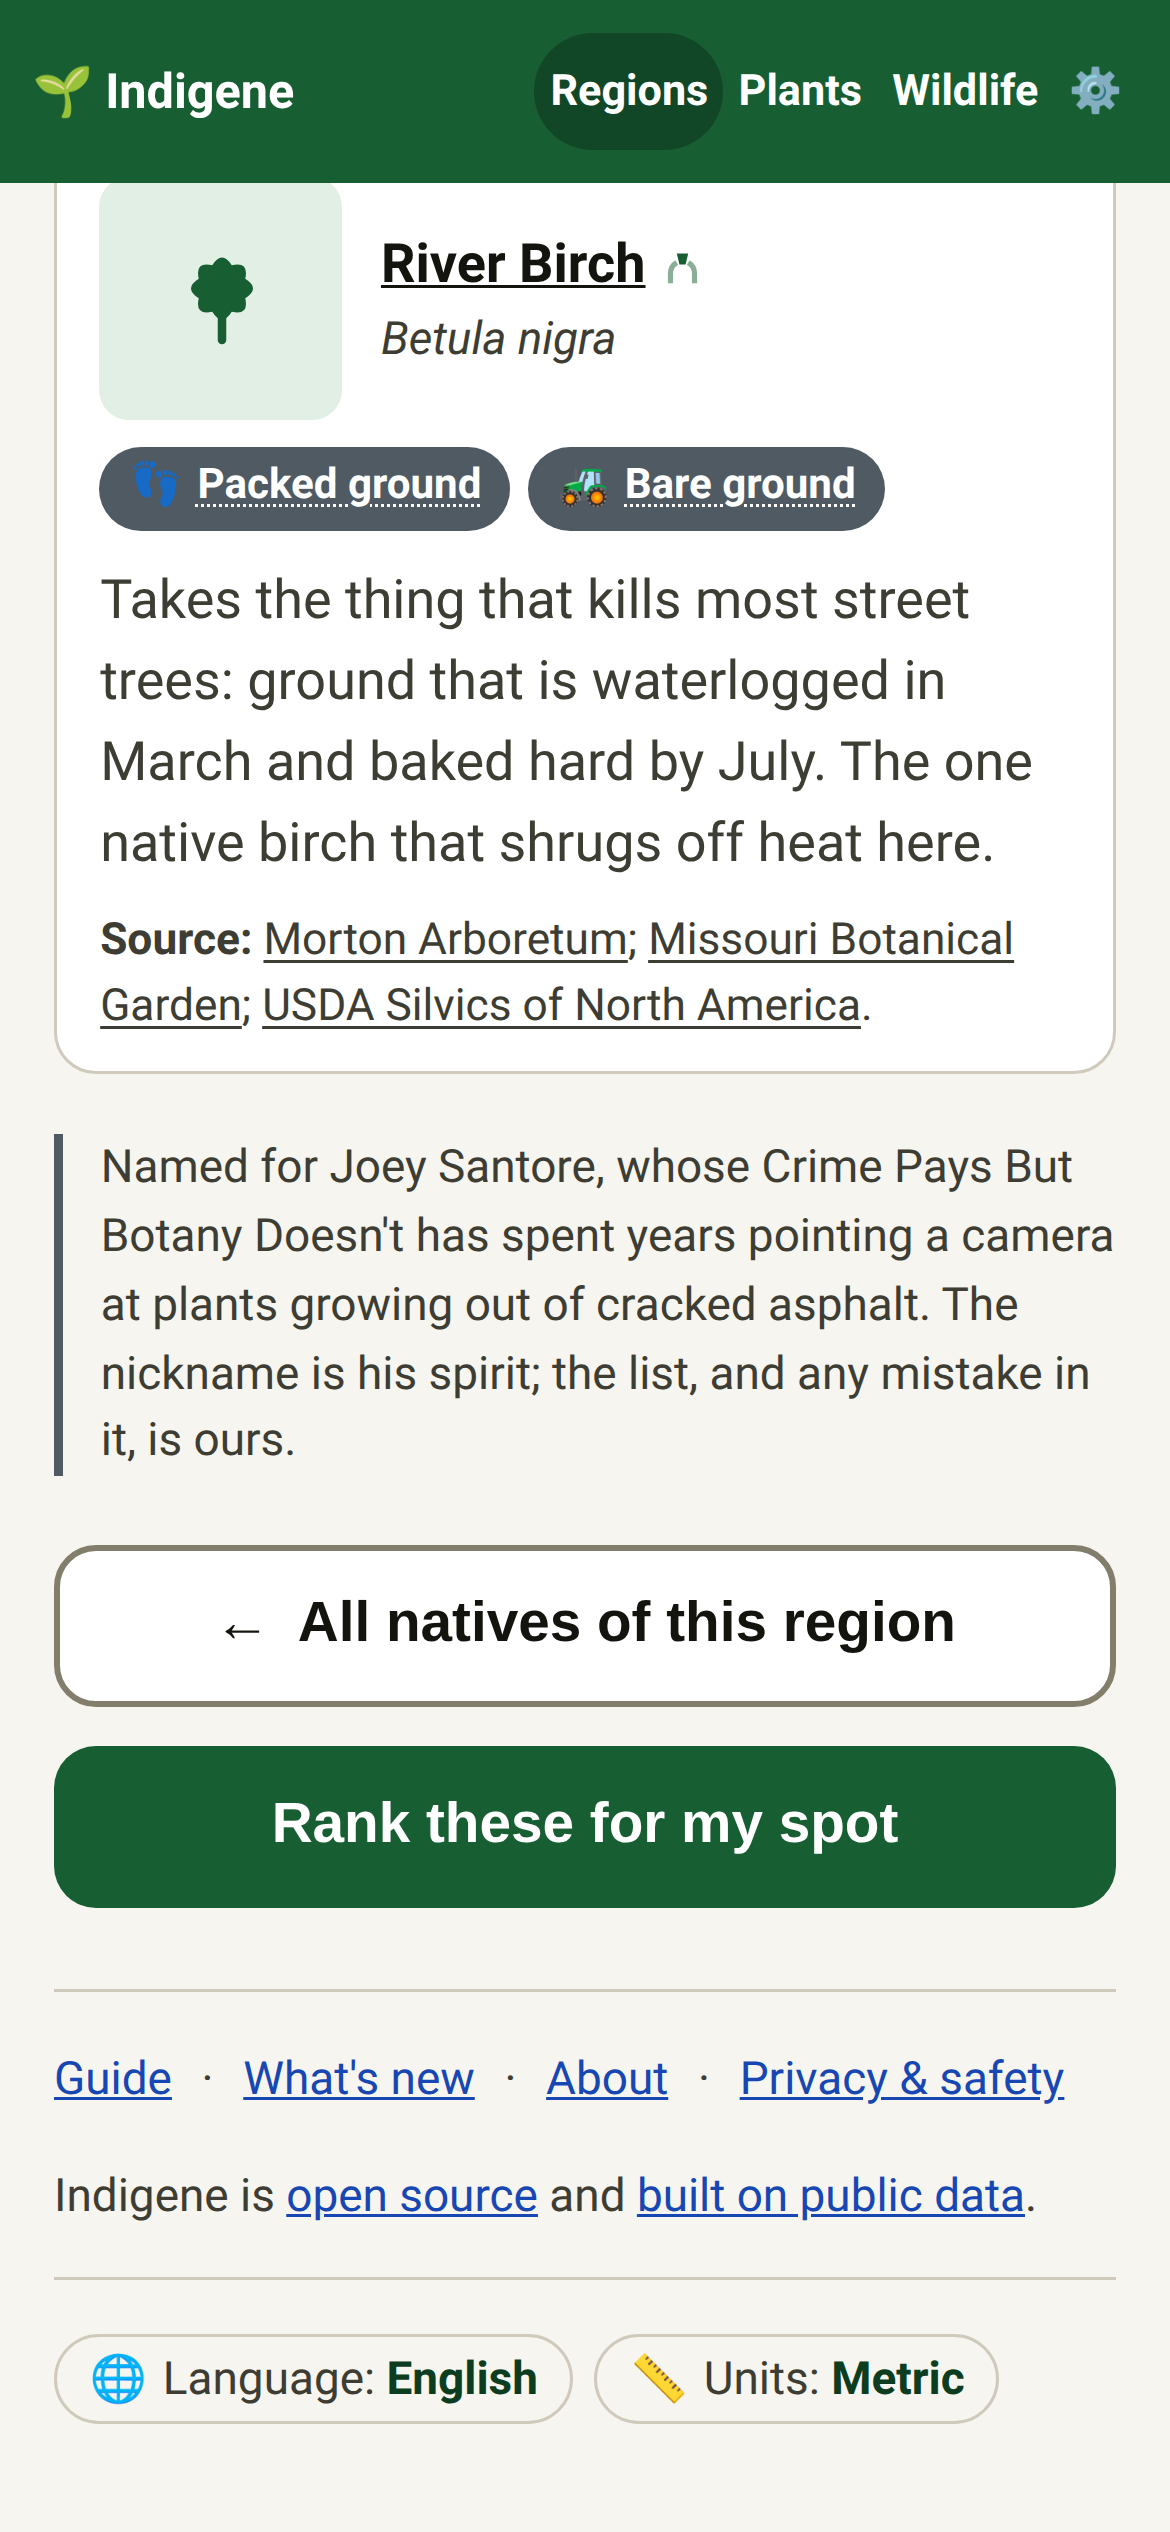
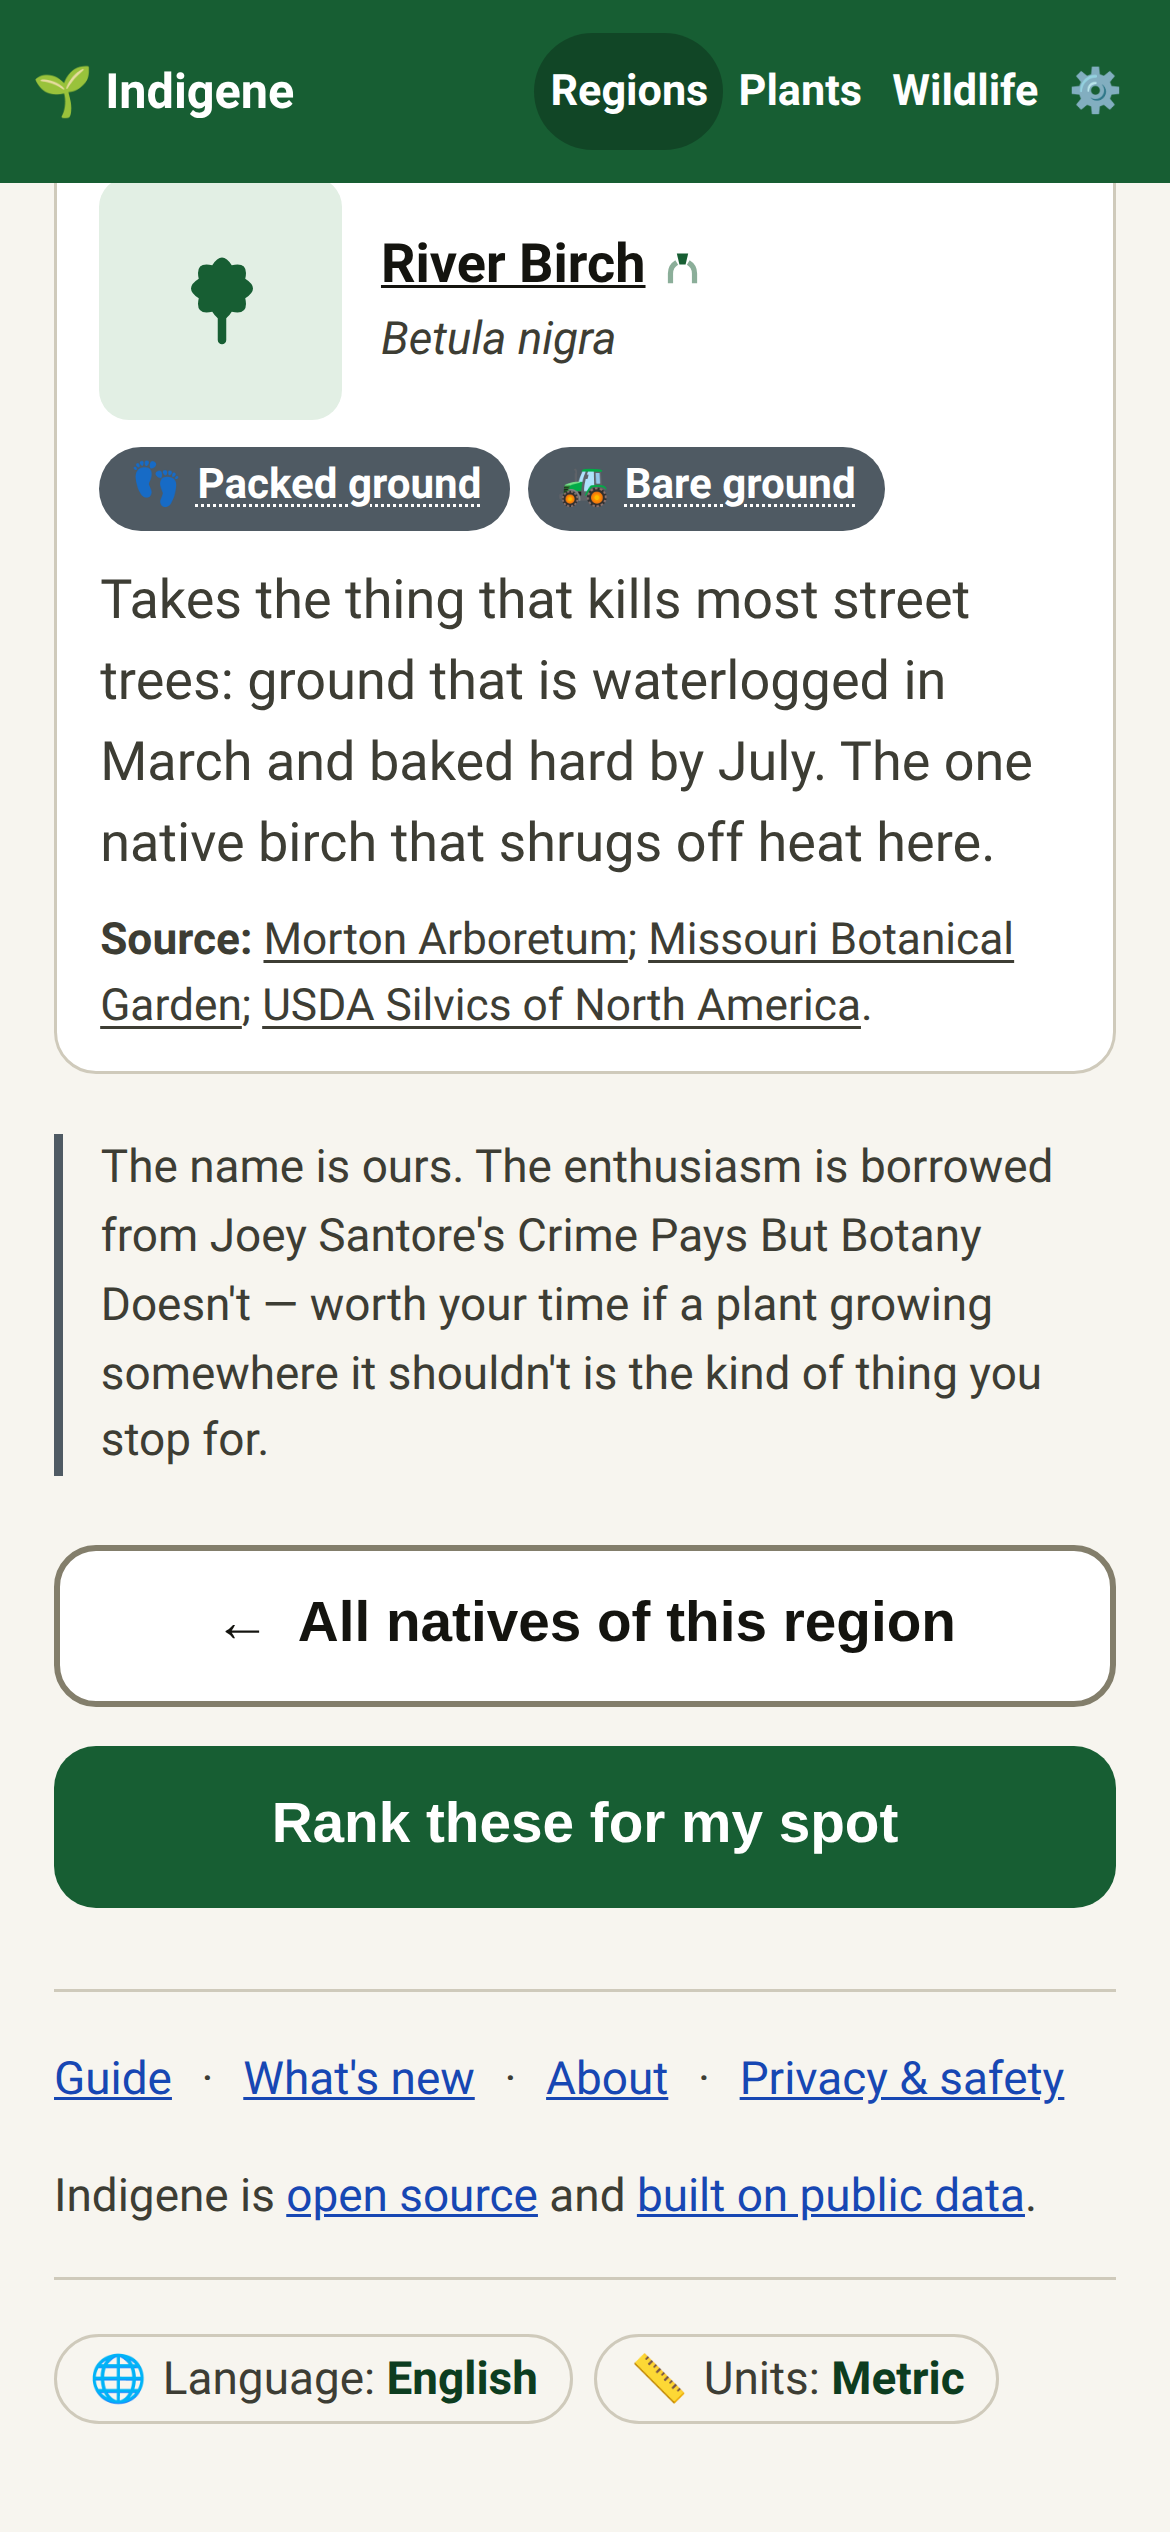
Credit the channel, not a phrase he never said
The closing line claimed Joey Santore had "spent years pointing a camera at
plants growing out of cracked asphalt" and that the nickname was "his
spirit". Neither is checkable: nothing ties "pavement pioneers" to him or
to anyone else, and his channel is about plant ecology broadly, not
sidewalk flora. Written that way it also read as sucking up, and implied
he had some part in a list he has never seen.

So the line says what is true — the name is ours, the enthusiasm is
borrowed — and recommends the channel instead of speaking for it. The code
comments beside it now say so too, so it can't drift back.

Claude-Session: https://claude.ai/code/session_01U3cNzL1pWVvwMeWKm6oVEn

Changed region(s): [[0.0923, 0.4368, 0.9538, 0.5928]]

diff --git a/app/src/locales/fr.ts b/app/src/locales/fr.ts
@@ -1791,8 +1791,9 @@ export const fr: Dict = {
 
   // ---------------------------------------------------------------------
   // Les pionnières du bitume — la courte liste pour le sol qu'une ville
-  // offre vraiment. Le surnom rend hommage à Joey Santore (Crime Pays But
-  // Botany Doesn't) ; le nom de sa chaîne reste en anglais, c'est un titre.
+  // offre vraiment. Le nom est de nous : Joey Santore ne l'a pas inventé et
+  // n'a pris aucune part à la liste, donc la ligne de fin salue sa chaîne
+  // sans parler en son nom. Le titre de la chaîne reste en anglais.
   // ---------------------------------------------------------------------
   "pioneers.title": "Pionnières du bitume",
   "pioneers.chip": "Pionnières",
@@ -1807,7 +1808,7 @@ export const fr: Dict = {
     "Nous n'avons pas encore déterminé lesquelles de nos indigènes de {region} supportent ce genre de traitement.",
   "pioneers.basis": "Source :",
   "pioneers.credit":
-    "Nommées en hommage à Joey Santore, dont la chaîne Crime Pays But Botany Doesn't filme depuis des années des plantes qui sortent de l'asphalte fendu. L'esprit du surnom est le sien ; la liste, et ses erreurs, sont les nôtres.",
+    "Le nom est de nous. L'enthousiasme, nous l'avons emprunté à Crime Pays But Botany Doesn't, la chaîne de Joey Santore — à voir si une plante qui pousse là où elle ne devrait pas est le genre de chose qui vous arrête.",
 
   // Ce que chacune encaisse. Le terme tient dans l'étiquette ; les mots
   // simples s'ouvrent d'une touche, parce que « tassement » est un mot de

diff --git a/app/src/locales/en.ts b/app/src/locales/en.ts
@@ -1800,8 +1800,9 @@ export const en = {
 
   // ---------------------------------------------------------------------
   // Pavement pioneers — the short list for ground a city actually offers.
-  // The nickname credits Joey Santore (Crime Pays But Botany Doesn't); the
-  // credit line is published prose, not a footnote, so it says why.
+  // The name is this repo's; Joey Santore neither coined it nor had any part
+  // in the list, so the credit line is a nod to the channel, not a claim of
+  // involvement. Don't let it drift back into speaking for him.
   // ---------------------------------------------------------------------
   "pioneers.title": "Pavement pioneers",
   "pioneers.chip": "Pioneers",
@@ -1816,7 +1817,7 @@ export const en = {
     "We haven't worked out which of our {region} natives take that kind of punishment yet.",
   "pioneers.basis": "Source:",
   "pioneers.credit":
-    "Named for Joey Santore, whose Crime Pays But Botany Doesn't has spent years pointing a camera at plants growing out of cracked asphalt. The nickname is his spirit; the list, and any mistake in it, is ours.",
+    "The name is ours. The enthusiasm is borrowed from Joey Santore's Crime Pays But Botany Doesn't — worth your time if a plant growing somewhere it shouldn't is the kind of thing you stop for.",
 
   // The abuse each one takes. The term is the chip; the plain words open on a
   // tap, because "compaction" is a word from an engineering report.

diff --git a/app/src/types.ts b/app/src/types.ts
@@ -678,9 +678,9 @@ export interface AlternativeLink {
 // them is a different answer to a different question — which is why this is a
 // side table keyed by region and plant id, not another boolean on `Plant`.
 //
-// The nickname is a nod to Joey Santore (Crime Pays But Botany Doesn't), who
-// has spent years pointing a camera at plants growing out of cracked asphalt
-// and making the case that tenacity is worth admiring. Ours are the native ones.
+// The name is this repo's own, and so is the list; the page's closing line
+// nods to Joey Santore's Crime Pays But Botany Doesn't for the enthusiasm, not
+// for the phrase. He didn't coin it and had no part in this.
 //
 // Two rules, the same as the wildlife layer's:
 //

diff --git a/app/src/data/pioneers.ts b/app/src/data/pioneers.ts
@@ -12,8 +12,10 @@
 //      standing in front of a bad patch of ground — not a second roster. If a
 //      ninth candidate is better than one already here, swap it; don't append.
 //
-// The nickname credits Joey Santore (Crime Pays But Botany Doesn't). The list
-// is ours, and so is any mistake in it.
+// "Pavement pioneers" is this repo's own name — nobody else's phrase to get
+// wrong. The page's closing line nods to Joey Santore's Crime Pays But Botany
+// Doesn't for the enthusiasm; he had no part in the list, and the credit must
+// not drift into implying he did.
 import type { PioneerEntry, PioneerPressure } from "../types";
 
 /**

diff --git a/changelog.d/pavement-pioneers.md b/changelog.d/pavement-pioneers.md
@@ -8,10 +8,10 @@
   kind — packed ground, cracks, road salt — that explains itself when you tap
   it. Shown only on the regions where it's documented.
 - Internal: `data/pioneers.ts` is a region → plant id side table beside the
-  wildlife and look-alike ones; 127 rows across all 15 regions. The nickname
-  credits Joey Santore (Crime Pays But Botany Doesn't) on the page itself. Nine
-  authorities added to `data/sources.ts`, led by the USFS Fire Effects
-  Information System and the MNHN's Sauvages de ma rue.
+  wildlife and look-alike ones; 127 rows across all 15 regions. The page closes
+  with a nod to Joey Santore's Crime Pays But Botany Doesn't — our name, not
+  his phrase. Nine authorities added to `data/sources.ts`, led by the USFS Fire
+  Effects Information System and the MNHN's Sauvages de ma rue.
 - Internal: `lib/traits.ts`'s `traitsFor()` takes an optional region, because
   the pioneer label is a claim about one region's conditions; a caller without
   one never gets it. `check-prose.mjs` counts `pioneerNote`, so a region can no
